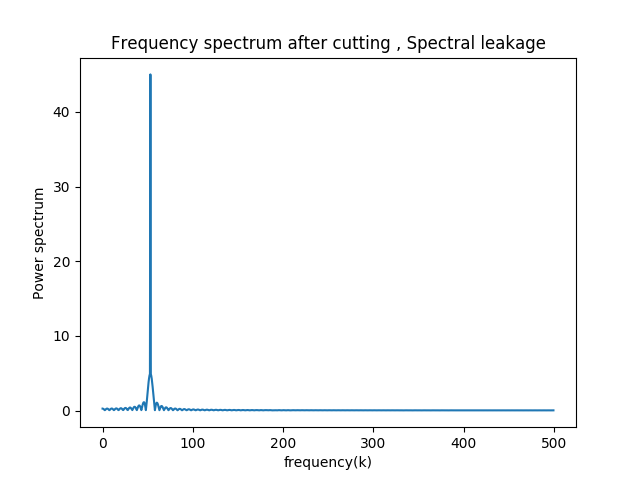
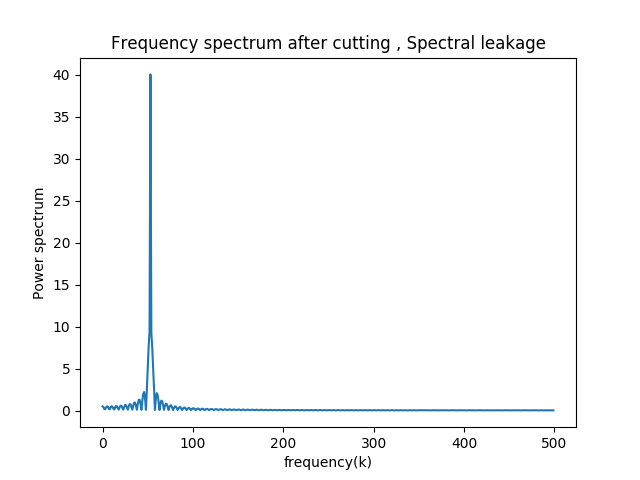
Fourier transform
modify number of samples

diff --git a/c-05 fourier transform and spectral leakage.py b/c-05 fourier transform and spectral leakage.py
@@ -73,8 +73,8 @@ A0=100    #amplitude
 dt=0.001  #sampling time
 fgr=1/(2.0*dt)   #sampling frequency
 
-N=2000    # number of samples
-N1=1800   # first N1 sample will be kept after cutting the signal , the last N-N1 will be set to 0
+N=1000    # number of samples
+N1=800   # first N1 sample will be kept after cutting the signal , the last N-N1 will be set to 0
 T=1       # signal duration
 
 # first : create harmonic signal
